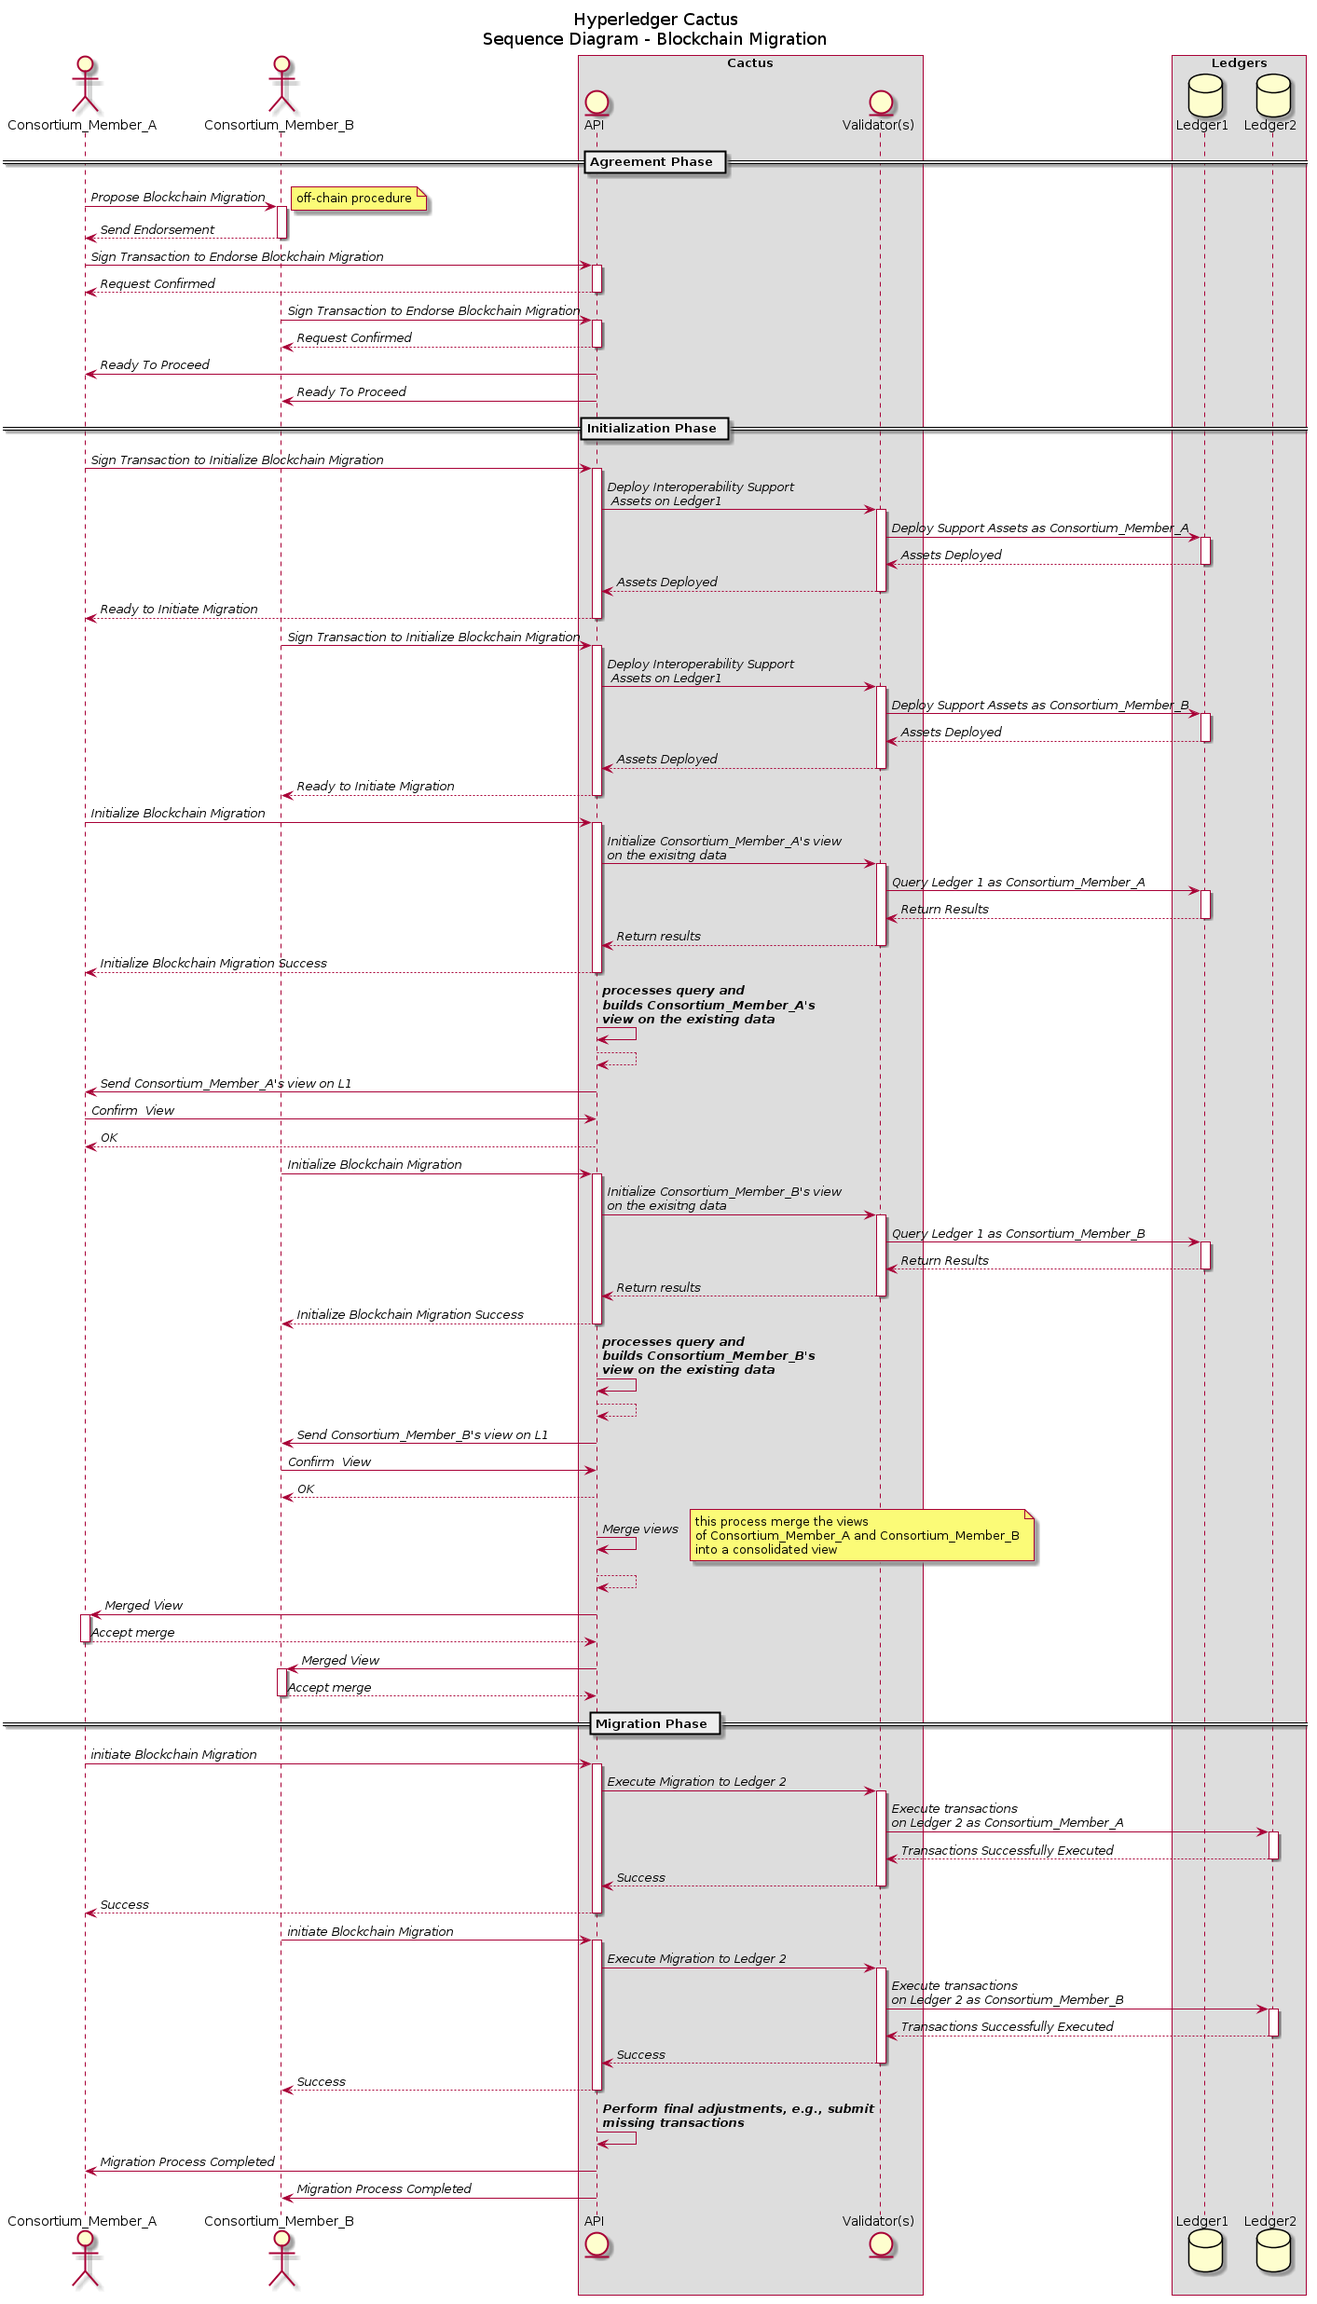
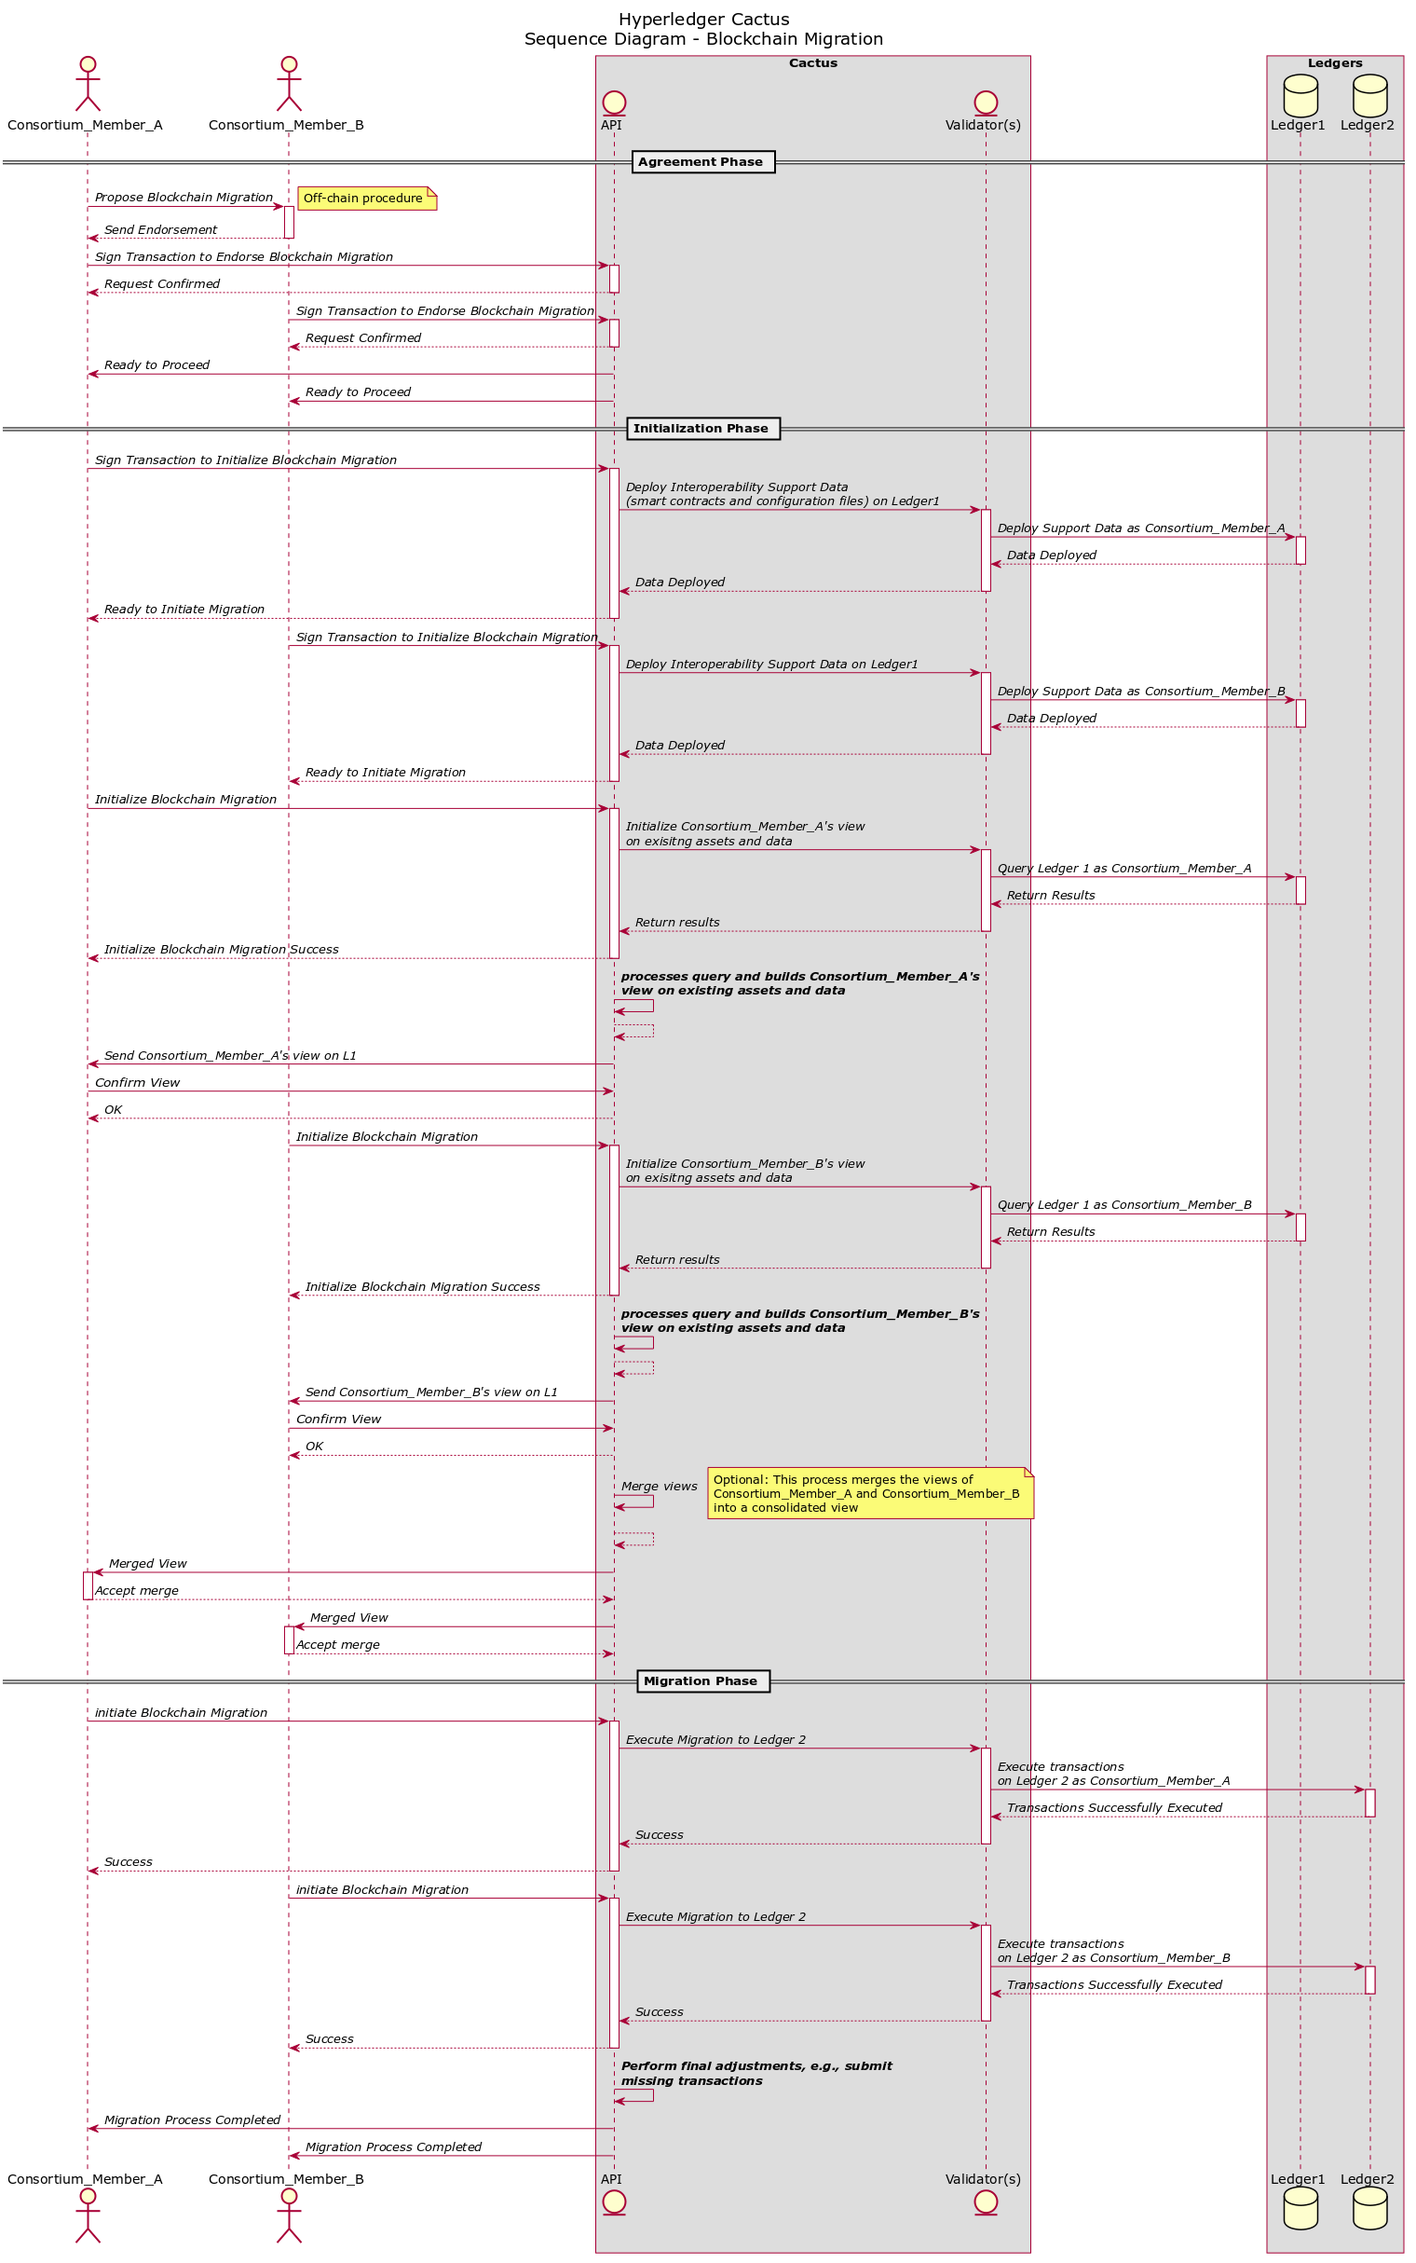
docs(whitepaper): Expanded Blockchain Migration (Updated).

diff --git a/whitepaper/whitepaper.md b/whitepaper/whitepaper.md
@@ -521,48 +521,48 @@ gets replaced by a traditional bank account holding USD.
 | Use Case Attribute Name    | Use Case Attribute Value |
 | -------------------------- | -------------------------------------------- |
 | Use Case Title             | Blockchain Migration |
-| Use Case                   | 1. `User A` runs an application/service on a source blockchain that is either permissioned or permissionless.<br>2. `User A` decides to use another blockchain instance (permissioned or permissionless) to run his/her application. <br>3. `User A` migrates the existing assets and data to the target blockchain.<br>4. `User A` runs the application/service on the target blockchain.
+| Use Case                   | 1. `Consortium A` operates a set of services on the source blockchain.<br>2. `Consortium A` decides to use another blockchain instance to run its services. <br>3. `Consortium A` migrates the existing assets and data to the target blockchain.<br>4. `Consortium A` runs the services on the target blockchain.
 | Interworking patterns      | Value transfer, Data transfer |
 | Type of Social Interaction | Asset and Data Transfer |
-| Narrative                  | `User A` who's application/service is operating on a source blockchain (e.g., a Hyperledger Fabric instance), would want to migrate the assets, data, and functionality to a target blockchain (e.g., Hyperledger Besu) to expand their reach. However, such migration requires lots of technical effort and time. The `Blockchain Migration` feature from `Cactus` can provide support for doing so, by connecting to the source and target blockchains, and performing the migration task.
-| Actors                     | 1. `User A`: The entity operating on the source blockchain which aims at performing a migration to the target blockchain. |
-| Goals of Actors            | 1. `User A`: Wants to be able to operate his/her application on the target blockchain while gaining its benefits such as better performance, lower cost, or enhanced privacy. |
-| Success Scenario           | Asset and data are available on the target blockchain enabling `User A`'s application to operate on the target blockchain.|
+| Narrative                  | A group of members  (`Consortium A`) that operates the source blockchain (e.g., Hyperledger Fabric instance) would like to migrate the assets, data, and functionality to the target blockchain (e.g., Hyperledger Besu instance) to expand their reach or to benefits from better performance, lower cost, or enhanced privacy offered by the target blockchain. In the context of public blockchains, both the group size and the number of services could even be one. For example, a user that runs a Decentralized Application (DApp) on a publication blockchain wants to migrate DApp's assets, data, and functionality to a target blockchain that is either public or private.<br>The migration is initiated only after all members of `Consortium A` provide their consent to migrate. During the migration, assets and data that are required to continue the services are copied to the target blockchain. Assets on the source blockchain are burned during the migration to prevent double-spending. After the migration, future transactions are processed on the target blockchain. In contrast, requests to access historical transactions are directed to the source blockchain (if the source blockchain is decommissioned after migration, relevant transaction history is also migrated to the target blockchain).<br>Regardless of whether the migration involves an entire blockchain or assets, data, smart contracts, and transaction history of a DApp, migration requires lots of technical effort and time. The `Blockchain Migration` feature from `Cactus` can provide support for doing so by connecting to the source and target blockchains, and then performing the migration task. |
+| Actors                     | 1. `Consortium A`: The group of entities operating on the source blockchain who collectively aims at performing the migration to the target blockchain. |
+| Goals of Actors            | 1. `Consortium A`: Wants to be able to operate its services on the target blockchain while gaining its benefits such as better performance, lower cost, or enhanced privacy. |
+| Success Scenario           | Asset and data (including smart contracts) are available on the target blockchain, enabling `Consortium A`'s services to operate on the target blockchain.|
 | Success Criteria           | Migration starts at a set time, and all desired assets and data, as well as their histroy have been migrated in a decentralized way. |
-| Failure Criteria           | All desired assets and data, as well as their histroy not on the target blockchain. `User A` is unable migrate to target blockchain for a number of reasons, such as inability to recreate the same smart contract logic, inability to arbitary recreate native assets on target blockchain, and lack of access to private keys of external accounts. It may also be cost and time prohibitive to recreate entire history on the target blockchain. |
-| Prerequisites              | 1. `User A` wants to migrate the data on source blockchain.<br>2. Migration plan and window are informed to all members of the application's governance body, and they agree to the migration.<br>3. `User A` has write and execute permissions on the target blockchain. |
-| Comments                   | * `User A` is the governance body of an application/service running on the blockchain or the source blockchain itself (e.g., consortium).<br> * Data include smart contracts and their data originating from the source blockchain. Depending on the use case, a subset of the assets, data, and their history may be recreated on the target blockchain.<br>* This use case relates to the use cases implying asset and data portability (e.g., 2.1). However, migration is mostly one-way and nonreversible.<br>* This use case provides blockchain portability; thus, retains blockchain properties across migration, reduces costs, time to migration, and foster blockchain adoption. |
+| Failure Criteria           | States of all assets, data, and transaction history on the target blockchain do not match the states on the source blockchain before migration. `Consortium A` is unable to migrate to the target blockchain for several reasons, such as inability to recreate the same smart contract logic, inability to arbitrary recreate native assets on target blockchain, and lack of access to private keys of external accounts. |
+| Prerequisites              | 1. `Consortium A` wants to migrate the assets and data on the source blockchain, and have chosen a desirable target blockchain.<br>2. Migration plan and window are informed to all members of the consortium, and they agree to the migration.<br>3. `Consortium A` has write and execute permissions on the target blockchain. |
+| Comments                   | * `Consortium A` is the governance body of services running on the source blockchain.<br> * Data include smart contracts and their data originating from the source blockchain. Depending on the use case, a subset of the assets, data, and their history may be recreated on the target blockchain.<br>* This use case relates to the use cases implying asset and data portability (e.g., 2.1). However, migration is mostly one-way and nonreversible.<br>* This use case provides blockchain portability; thus, retains blockchain properties across migration, reduces costs, time to migration, and foster blockchain adoption. |
 
 ---
 **Motivation**
 
-The suitability of a blockchain solution regarding a use case depends on the underlying blockchain properties. 
+The suitability of a blockchain platform regarding a use case depends on the underlying blockchain properties. 
 As blockchain technologies are maturing at a fast pace, in particular private blockchains, its properties such as performance (i.e., throughput, latency, or finality), transaction fees, and privacy might change. 
 Also, blockchain platform changes, bug fixes, security, and governance issues may render an existing application/service suboptimal. 
 Further, business objectives such as the interest to launch own blockchain instance, partnerships, mergers, and acquisitions may motivate a migration. 
 Consequently, this creates an imbalance between the user expectations and the applicability of the existing solution.
-It is, therefore, desirable for an organization to be able to replace the blockchain providing the infrastructure to a particular application/service.
+It is, therefore, desirable for an organization/consortium to be able to replace the blockchain providing the infrastructure to a particular application/service.
 
-Currently, when a user wants to migrate their application or consortium wants to migrate the entire blockchain (e.g., the source blockchain became obsolete, cryptographic algorithms are no longer secure, and business reasons), the solution is to re-implement business logic using a different blockchain platform, and arbitrary recreate the assets and data on the target blockchain, yielding great effort and time, as well as losing blockchain properties such as immutability, consistency, and transparency.
+Currently, when a consortium wants to migrate the entire blockchain or user wants to migrate a DApp on a public blockchain (e.g., the source blockchain became obsolete, cryptographic algorithms are no longer secure, and business reasons), the solution is to re-implement business logic using a different blockchain platform, and arbitrary recreate the assets and data on the target blockchain, yielding great effort and time, as well as losing blockchain properties such as immutability, consistency, and transparency.
 Data migrations have been performed before on public blockchains [[2](#8-references), [3](#8-references), [4](#8-references)] to render flexibility to blockchain-based solutions.
 Such work proposes data migration capabilities and patterns for public, permissionless blockchains, in which a user can specify requirements and scope for the blockchain infrastructure supporting their service.
 
 ### 3.8.1 Blockchain Data Migration
 Data migration corresponds to capturing the subset of assets and data on a source blockchain and constructing a representation of those in a target blockchain. Note that the models underlying both blockchains do not need to be the same (e.g., world state model in Hyperledger Fabric vs account-balance model in Ethereum).
-To migrate, it should be possible to capture the necessary assets and data from the source blockchain and to write them on the target blockchain. The history of assets and data may also be migrated depending on the use case (i.e., the updates over the assets and data are considered history).
+For migration to be effective, it should be possible to capture the necessary assets and data from the source blockchain and to write them on the target blockchain. The history of assets and data may also be migrated depending on the use case (i.e., the updates over the assets and data are considered history).
 
 
 <img width="700" src="./use-case-sequence-diagram-blockchain-migration.png">
 
 ### 3.8.2 Blockchain Smart Contract Migration
-The task of migrating a smart contract comprises the task of migrating the smart contract logic and data. In specific, the data should be accessible and writeable on another blockchain. When the target blockchain can execute a smart contract written for the source blockchain, execution behaviour can be preserved by redeploying the same smart contract (e.g., reusing a smart contract written for Ethereum or Hyperldger Besu) and recreating its state of its assets and data. If code reuse is not possible (either at source or binary code level), the target blockchain's virtual machine should support the computational complexity of the source blockchain (e.g., one cannot migrate all Ethereum smart contracts to Bitcoin, but the other way around is feasible).
-Automatic smart contract migration (with or without translation) yields risks for enterprise blockchain systems, and thus the solution is nontrivial.
+The task of migrating a smart contract comprises the task of migrating the smart contract logic and data embedded in it. In specific, the data should be accessible and writeable on another blockchain. When the target blockchain can execute a smart contract written for the source blockchain, execution behaviour can be preserved by redeploying the same smart contract (e.g., reusing a smart contract written for Ethereum on Hyperldger Besu) and recreating its assets and data. If code reuse is not possible (either at source or binary code level), the target blockchain's virtual machine should support the computational complexity of the source blockchain (e.g., one cannot migrate all Ethereum smart contracts to Bitcoin, but the other way around is feasible).
+Automatic smart contract migration (with or without translation) yields risks for enterprise blockchain systems, and thus the solution is nontrivial [[4](#8-references)].
 
 ### 3.8.3 Semi-Automatic Blockchain Migration
 
-By expressing a users preferences in terms of functional and non-functional requirements, `Cactus` can recommend a set of suitable blockchains, as the target for the migration.
+By expressing a user's preferences in terms of functional and non-functional requirements, `Cactus` can recommend a set of suitable blockchains, as the target for the migration.
 Firstly, a user could know in real-time the characteristics of the target blockchain that would influence the migration decision. For instance, the platform can analyze the cost of writing data to Ethereum, Ether:USD exchange rate, average inter-block time, transaction throughput, and network hash rate [[3](#8-references)]. 
-Based on those characteristics and user-defined requirements, `Cactus` proposes a migration with indicators such as predicted cost, time to complete the migration, and likelihood of success.
+Based on those characteristics and user-defined requirements, `Cactus` proposes a migration with indicators such as predicted cost, time to complete the migration, and the likelihood of success.
 For example, when transaction inclusion time or fee on Ethereum exceeds a threshold, `Cactus` may choose Polkadot platform, as it yields lower transaction inclusion time or fee. `Cactus` then safely migrate assets, data, and future transactions from Ethereum to Polkadot, without compromising the solution in production.
  This feature is more useful for public blockchains.
 
@@ -1546,7 +1546,7 @@ Web 3.0 applications (decentralized apps or *DApps*) which interact with blockch
 
 # 8. Related Work
 Blockchain interoperability is emerging as one of the crucial features of blockchain technology
-A recent survey classifies blockchain interoperability studies in three categories: Cryptocurrency-directed interoperability approaches, Blockchain Engines, and Blockchain Connectors [[4](#8-references)]. Each category is further divided into sub-categories based on defined criteria.
+A recent survey classifies blockchain interoperability studies in three categories: Cryptocurrency-directed interoperability approaches, Blockchain Engines, and Blockchain Connectors [[5](#8-references)]. Each category is further divided into sub-categories based on defined criteria.
 Each category serves particular use cases.
 
 ![rw](./related-work-categories.png)
